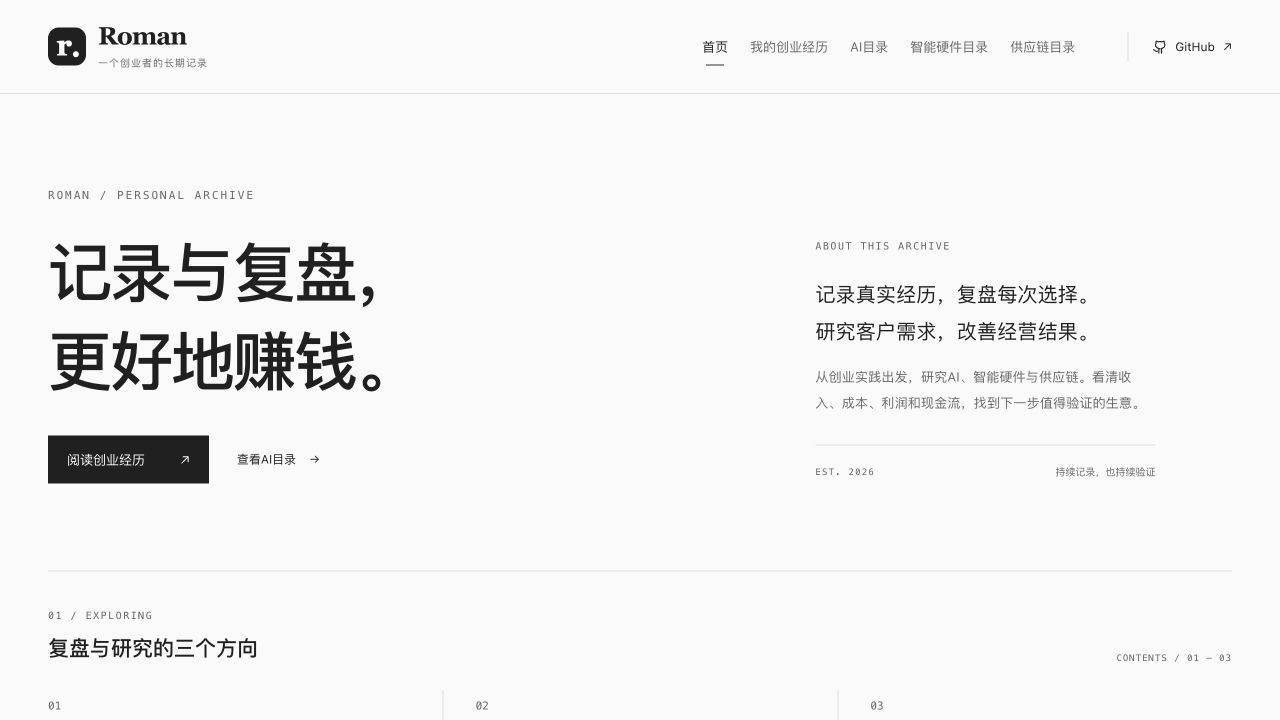
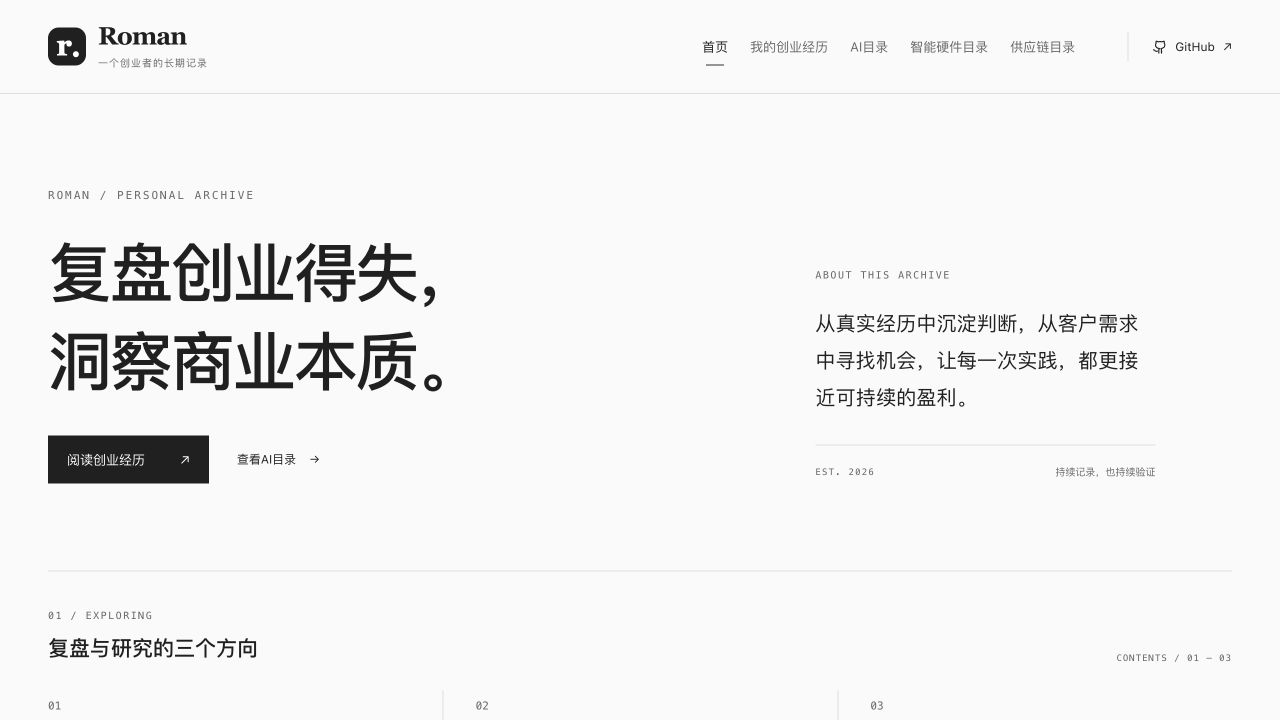
Refine homepage headline and introduction

Changed region(s): [[0.625, 0.3361, 0.9062, 0.5806], [0.0312, 0.4583, 0.3438, 0.55], [0.0312, 0.3361, 0.3438, 0.4278]]

diff --git a/app.js b/app.js
@@ -25,7 +25,7 @@ function renderHome() {
     ['journey', '02', '我的创业经历', '记录真实选择、投入与结果，复盘得失，找到下一次做得更好的方法。', 'YotureToys · 序章与19章目录'],
     ['hardware', '03', '智能硬件目录', '从用户需求、产品差异和供应链出发，研究哪些硬件值得做、怎样卖、如何赚钱。', '全球市场目录 · 逐款分析']
   ];
-  main.innerHTML = `<div class="page page-transition"><section class="hero" aria-labelledby="hero-title"><div class="hero-copy"><div class="eyebrow hero-eyebrow">ROMAN / PERSONAL ARCHIVE</div><h1 id="hero-title">记录与复盘，<br>更好地赚钱。</h1><div class="hero-actions"><a href="#journey" class="button-primary">阅读创业经历 <span aria-hidden="true">↗</span></a><a href="#ai" class="text-link">查看AI目录 <span aria-hidden="true">→</span></a></div></div><div class="hero-about"><span class="section-number">ABOUT THIS ARCHIVE</span><p>记录真实经历，复盘每次选择。<br>研究客户需求，改善经营结果。</p><p class="hero-description">从创业实践出发，研究AI、智能硬件与供应链。看清收入、成本、利润和现金流，找到下一步值得验证的生意。</p><div class="hero-footnote">EST. 2026 <span>持续记录，也持续验证</span></div></div></section><section class="section-rule" aria-labelledby="directions-heading"><div class="section-heading"><div><span class="section-number">01 / EXPLORING</span><h2 id="directions-heading">复盘与研究的三个方向</h2></div><p>CONTENTS / 01 — 03</p></div><div class="directions">${directions.map(([id, num, title, description, caption]) => `<a href="#${id}" class="direction direction-${id}"><div class="direction-top"><span>${num}</span></div><h3>${title}</h3><p>${description}</p><div class="direction-bottom"><span>${caption}</span><span aria-hidden="true">↗</span></div></a>`).join('')}</div></section><section aria-labelledby="records-title"><div class="records-head"><div class="section-heading"><div><span class="section-number">02 / RECENT NOTES</span><h2 id="records-title">最近的记录</h2></div></div><div class="filters" aria-label="筛选记录">${[['all', '全部记录'], ...Object.entries(categoryNames)].map(([id, label]) => `<button type="button" class="filter" data-filter="${id}" aria-pressed="${selectedFilter === id}">${label}</button>`).join('')}</div></div><div class="records-grid" id="records"></div><p class="record-count" id="record-count" role="status" aria-live="polite"></p></section><aside class="home-note"><div><blockquote>复盘过去的选择，验证下一步的生意。</blockquote><p>记录投入与结果，用真实反馈改进产品、销售和经营。</p></div><a href="#journey" class="text-link">继续阅读 <span aria-hidden="true">↗</span></a></aside></div>`;
+  main.innerHTML = `<div class="page page-transition"><section class="hero" aria-labelledby="hero-title"><div class="hero-copy"><div class="eyebrow hero-eyebrow">ROMAN / PERSONAL ARCHIVE</div><h1 id="hero-title">复盘创业得失，<br>洞察商业本质。</h1><div class="hero-actions"><a href="#journey" class="button-primary">阅读创业经历 <span aria-hidden="true">↗</span></a><a href="#ai" class="text-link">查看AI目录 <span aria-hidden="true">→</span></a></div></div><div class="hero-about"><span class="section-number">ABOUT THIS ARCHIVE</span><p>从真实经历中沉淀判断，从客户需求中寻找机会，让每一次实践，都更接近可持续的盈利。</p><div class="hero-footnote">EST. 2026 <span>持续记录，也持续验证</span></div></div></section><section class="section-rule" aria-labelledby="directions-heading"><div class="section-heading"><div><span class="section-number">01 / EXPLORING</span><h2 id="directions-heading">复盘与研究的三个方向</h2></div><p>CONTENTS / 01 — 03</p></div><div class="directions">${directions.map(([id, num, title, description, caption]) => `<a href="#${id}" class="direction direction-${id}"><div class="direction-top"><span>${num}</span></div><h3>${title}</h3><p>${description}</p><div class="direction-bottom"><span>${caption}</span><span aria-hidden="true">↗</span></div></a>`).join('')}</div></section><section aria-labelledby="records-title"><div class="records-head"><div class="section-heading"><div><span class="section-number">02 / RECENT NOTES</span><h2 id="records-title">最近的记录</h2></div></div><div class="filters" aria-label="筛选记录">${[['all', '全部记录'], ...Object.entries(categoryNames)].map(([id, label]) => `<button type="button" class="filter" data-filter="${id}" aria-pressed="${selectedFilter === id}">${label}</button>`).join('')}</div></div><div class="records-grid" id="records"></div><p class="record-count" id="record-count" role="status" aria-live="polite"></p></section><aside class="home-note"><div><blockquote>复盘过去的选择，验证下一步的生意。</blockquote><p>记录投入与结果，用真实反馈改进产品、销售和经营。</p></div><a href="#journey" class="text-link">继续阅读 <span aria-hidden="true">↗</span></a></aside></div>`;
   renderRecords();
 }
 function renderRecords() {

diff --git a/index.html b/index.html
@@ -4,7 +4,7 @@
   <meta charset="UTF-8">
   <meta name="viewport" content="width=device-width, initial-scale=1">
   <meta name="theme-color" content="#fafafa">
-  <meta name="description" content="Roman：记录真实创业经历，复盘选择、投入与结果；研究AI、智能硬件与供应链，探索怎样更好地赚钱。">
+  <meta name="description" content="Roman：从真实经历中沉淀判断，从客户需求中寻找机会，让每一次实践，都更接近可持续的盈利。">
   <title>Roman · 个人档案</title>
   <link rel="icon" type="image/svg+xml" href="assets/favicon.svg">
   <link rel="stylesheet" href="styles.css?v=20261106-logo">
@@ -15,7 +15,7 @@
   <script src="ai-directory.js?v=20261106-ai-toys" defer></script>
   <script src="supply-chain.js?v=20261106-ai-toys" defer></script>
   <script src="hardware.js?v=20261106-ai-toys" defer></script>
-  <script src="app.js?v=20261107-purpose" defer></script>
+  <script src="app.js?v=20261107-reflection" defer></script>
 </head>
 <body>
   <a class="skip-link" href="#main">跳到正文</a>
@@ -33,7 +33,7 @@
     </div>
   </header>
   <main id="main" tabindex="-1"><div class="loading">正在翻开这份记录…</div></main>
-  <footer class="site-footer"><div class="footer-inner"><a href="#home" class="footer-brand">Roman<span>记录与复盘，更好地赚钱。</span></a><span class="footer-note">AI · ENTREPRENEURSHIP · HARDWARE</span><a href="https://github.com/RomanAgent/Roman" target="_blank" rel="noopener noreferrer">在 GitHub 上继续阅读 ↗</a></div><div class="footer-bottom"><span>© 2026 Roman</span><span>一份持续更新的个人档案 <span class="live-dot"></span></span><a href="#home">回到首页 ↑</a></div></footer>
+  <footer class="site-footer"><div class="footer-inner"><a href="#home" class="footer-brand">Roman<span>复盘创业得失，洞察商业本质。</span></a><span class="footer-note">AI · ENTREPRENEURSHIP · HARDWARE</span><a href="https://github.com/RomanAgent/Roman" target="_blank" rel="noopener noreferrer">在 GitHub 上继续阅读 ↗</a></div><div class="footer-bottom"><span>© 2026 Roman</span><span>一份持续更新的个人档案 <span class="live-dot"></span></span><a href="#home">回到首页 ↑</a></div></footer>
   <noscript><p class="noscript">此网页需要 JavaScript。你也可以<a href="https://github.com/RomanAgent/Roman">在 GitHub 阅读全部内容</a>。</p></noscript>
 </body>
 </html>

diff --git a/README.md b/README.md
@@ -2,9 +2,9 @@
 
 # ROMAN
 
-**记录与复盘，更好地赚钱。**
+**复盘创业得失，洞察商业本质。**
 
-这份档案有两个目的：第一，记录真实创业经历，复盘选择、投入与结果；第二，研究怎样更好地赚钱。围绕AI公司、智能硬件与供应链，研究客户为什么买、收入从哪里来、成本花在哪里，以及怎样改善利润和现金流。
+从真实经历中沉淀判断，从客户需求中寻找机会，让每一次实践，都更接近可持续的盈利。
 
 [浏览完整网站](https://romanagent.github.io/Roman/) · [GitHub 仓库](https://github.com/RomanAgent/Roman)
 
